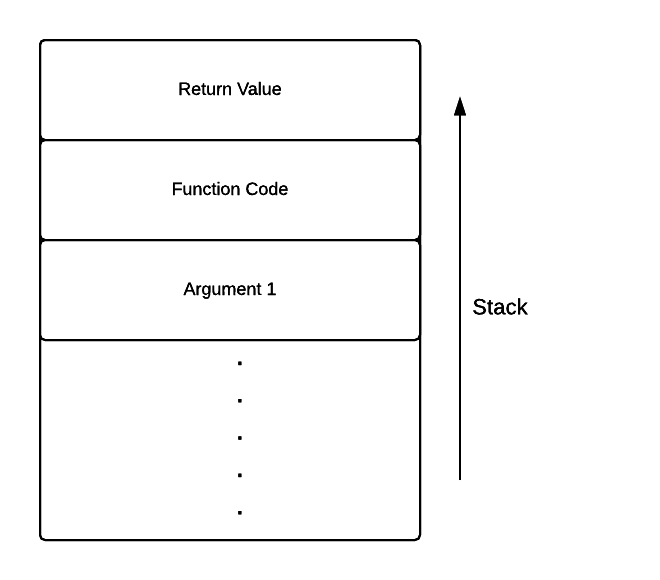
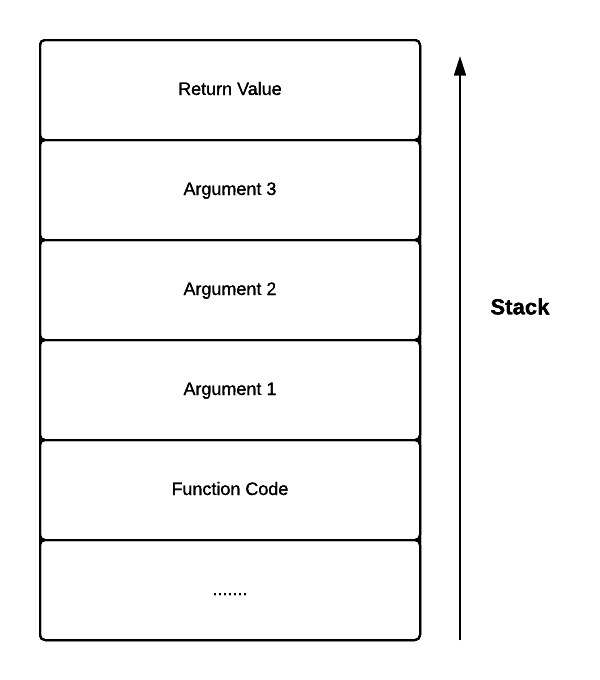
abi

diff --git a/abi.html b/abi.html
@@ -676,9 +676,9 @@ Associated with each system call, there is a system call number and interrupt ro
                                 </table>
                                <h3>Dynamic Memory Management Module Interface</h3>
                                
-                                <p>The dynamic memory management module interface takes two inputs - a function code (0 for alloc and 1 for free - see <a href="os_spec-files/dynamicmemoryroutines.html" target="_blank">high level library interface</a> for specification) and one argument passed through the stack. The retrun value is passed back to the application through the stack. The OS loader of the present version of eXpOS for XSM architecture links this routine to <i>virtual address 512</i> of the application process. The following figure shows the contents of the stack just before a call to this library routine.</p>
+                                <p>The dynamic memory management module interface takes two inputs - a function code (-1 for initialize, -2 for alloc and -3 for free -- see <a href="../os_spec-files/dynamicmemoryroutines.html" target="_blank">high level library interface</a> for specification) and three argument passed through the stack. The retutn value is passed back to the application through the stack. The OS loader of the present version of eXpOS for XSM architecture links this routine to <i>virtual address 512</i> of the application process. The following figure shows the contents of the stack just before a call to this library routine.</p>
                                
-<center>                        <img src="img/memory_management.png"></center>
+<center>                        <img src="../img/memory_management.png"></center>
 
 
                             </div>

diff --git a/support_tools-files/spl.html b/support_tools-files/spl.html
@@ -625,7 +625,7 @@ call 511;  /* Transfers control to the first page in memory */  </pre>
 
                                 <p><span class="label label-success label-as-badge">2</span> Arguments to a module (typically includes the function code indicating which function within the module is to be invoked, as well as the parameters to that function) shall be passed through the stack. The return value may also be passed through the stack. A recommended parameter passing convension is shown in the figure below:</p>
                                     
-                                <p style="color:blue">FIGURE</p>
+                                <center>                        <img src="../img/memory_management.png"></center>
                                 <p><code>Note: </code> The SPL compiler given here predefines eXpOS specific constants MOD_0 to MOD_7 as starting address of eXpOS kernel modules, which are (optionally) loaded into various pre-defined memory pages of the XSM machine when eXpOS starts up). In addition to these, all interrupt service routines can be programmed as SPL modules are loaded to the corresponding interrupt service routine locations in memory. The SPL predefined constants INT_0 to INT_18 can be used to invoke these modules.</p>
  
                                 <p><span class="label label-success label-as-badge">3</span> A module may be entered as a result of: <br/>
